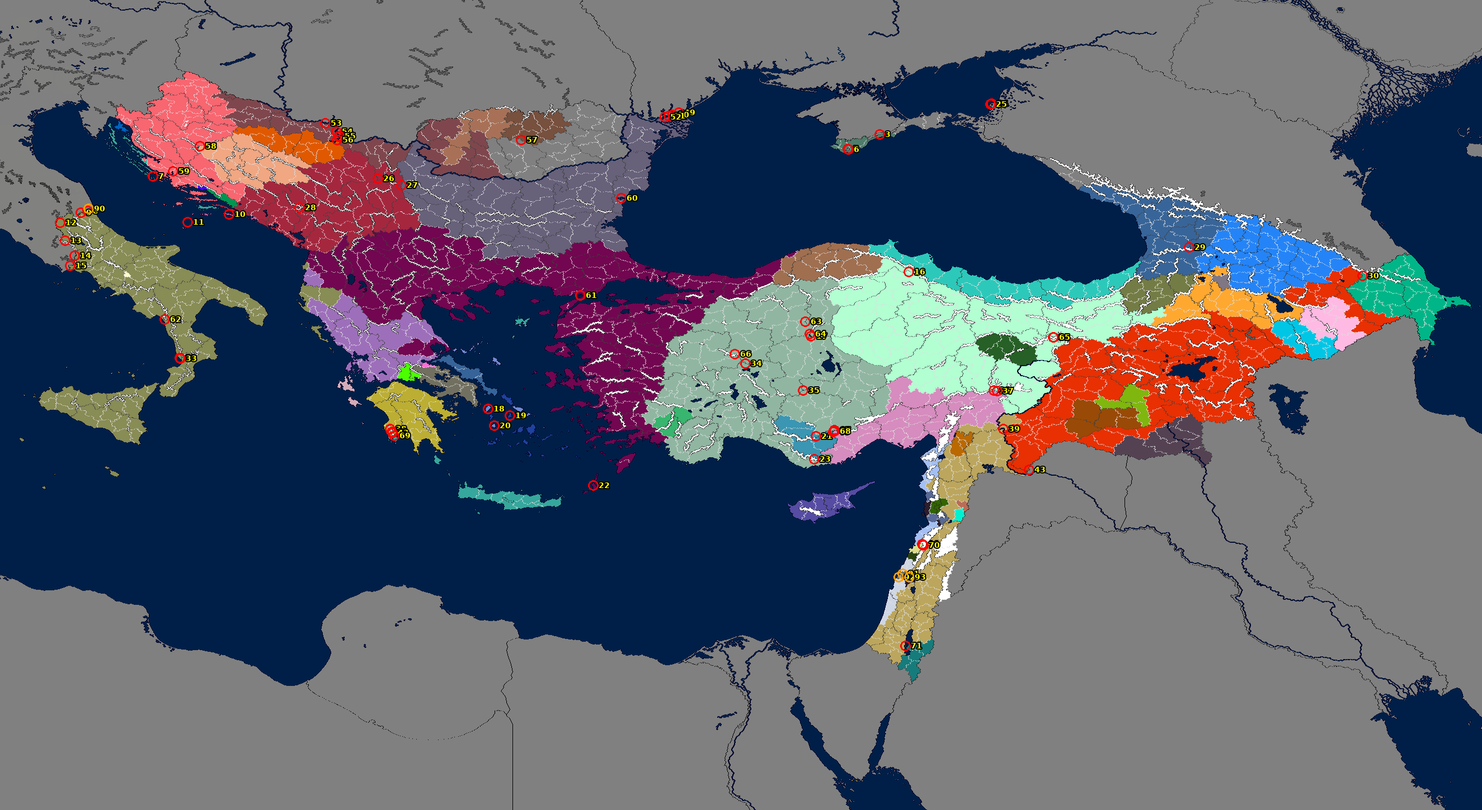
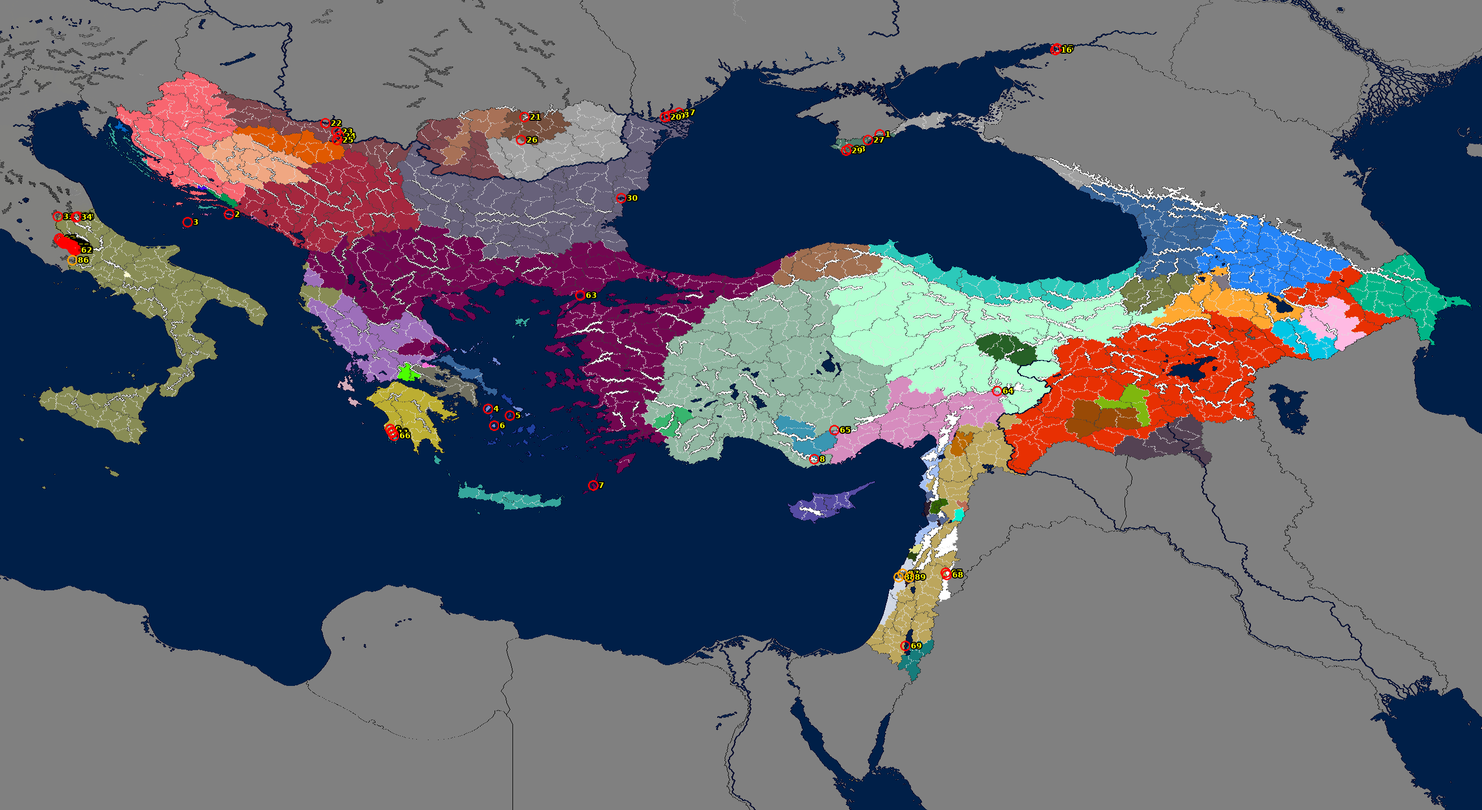
Обновлён список артефактов после чистки
Claude-Session: https://claude.ai/code/session_01DB8qGZSVeWu67G2NacHSuU

diff --git a/tools/artifacts.md b/tools/artifacts.md
@@ -4,97 +4,92 @@
 
 | № | Карта | Тип | x, y | Долгота, широта | Что не так |
 |---|---|---|---|---|---|
-| 1 | регионов | цвет державы | 3297, 1947 | 35.82, 34.01 | #e7eaf1: на карте регионов стоит цвет державы (8 пикс.) — из-за этого здесь получился отдельный регион |
-| 2 | регионов | цвет державы | 3242, 2087 | 35.42, 32.98 | #2d1d2d: на карте регионов стоит цвет державы (256 пикс.) — из-за этого здесь получился отдельный регион |
-| 3 | политическая | провинция поделена | 3145, 480 | 34.70, 44.86 | «Боспор, земля 5»: 60% #4f7c6b, 40% #808080. Граница державы идёт не по белой линии провинции |
-| 4 | политическая | провинция поделена | 1211, 489 | 20.41, 44.80 | «Срем, земля 8»: 96% #7f474d, 4% #e05900. Граница державы идёт не по белой линии провинции |
-| 5 | политическая | провинция поделена | 3030, 533 | 33.85, 44.47 | «Готия, земля 3»: 96% #4f7c6b, 4% #808080. Граница державы идёт не по белой линии провинции |
-| 6 | политическая | провинция поделена | 3033, 535 | 33.87, 44.46 | «Готия, земля 4»: 97% #4f7c6b, 3% #808080. Граница державы идёт не по белой линии провинции |
-| 7 | политическая | провинция поделена | 547, 631 | 15.50, 43.75 | «Северная Далмация, земля 5»: 97% #f86670, 3% #36a79c. Граница державы идёт не по белой линии провинции |
-| 8 | политическая | провинция поделена | 313, 755 | 13.77, 42.83 | «Абруцци, земля 1»: 91% #888c55, 5% #82827c. Граница державы идёт не по белой линии провинции |
-| 9 | политическая | провинция поделена | 288, 760 | 13.58, 42.79 | «Абруцци, земля 2»: 82% #888c55, 18% #82827c. Граница державы идёт не по белой линии провинции |
-| 10 | политическая | провинция поделена | 819, 767 | 17.51, 42.74 | «Конавли, земля 1»: 83% #a5273e, 16% #c4669e. Граница державы идёт не по белой линии провинции |
-| 11 | политическая | провинция поделена | 671, 794 | 16.41, 42.54 | «Корчула»: 91% #36a79c, 8% #c4669e. Граница державы идёт не по белой линии провинции |
-| 12 | политическая | провинция поделена | 214, 796 | 13.04, 42.53 | «Абруцци, земля 3»: 81% #888c55, 17% #81817f. Граница державы идёт не по белой линии провинции |
-| 13 | политическая | провинция поделена | 232, 861 | 13.17, 42.05 | «Абруцци, земля 8»: 96% #888c55, 4% #81817f. Граница державы идёт не по белой линии провинции |
-| 14 | политическая | провинция поделена | 266, 914 | 13.42, 41.65 | «Молизе, земля 7»: 93% #888c55, 7% #81817f. Граница державы идёт не по белой линии провинции |
-| 15 | политическая | провинция поделена | 250, 950 | 13.30, 41.39 | «Принчипато-Ультра, земля 2»: 87% #888c55, 13% #81817f. Граница державы идёт не по белой линии провинции |
-| 16 | политическая | провинция поделена | 3248, 973 | 35.46, 41.22 | «Галис, земля 1»: 97% #b2ffd2, 3% #ccffe2. Граница державы идёт не по белой линии провинции |
-| 17 | политическая | провинция поделена | 2898, 1202 | 32.87, 39.52 | «Галатия, земля 9»: 97% #90b6a1, 3% #3d1d12. Граница державы идёт не по белой линии провинции |
-| 18 | политическая | провинция поделена | 1744, 1462 | 24.34, 37.60 | «Андрос»: 79% #1f419e, 21% #728cd5. Граница державы идёт не по белой линии провинции |
-| 19 | политическая | провинция поделена | 1822, 1486 | 24.92, 37.42 | «Тинос»: 78% #728cd5, 22% #1f419e. Граница державы идёт не по белой линии провинции |
-| 20 | политическая | провинция поделена | 1766, 1522 | 24.51, 37.16 | «Серифос»: 77% #1f419e, 23% #728cd5. Граница державы идёт не по белой линии провинции |
-| 21 | политическая | провинция поделена | 2917, 1560 | 33.01, 36.88 | «Ларанда, земля 8»: 97% #90b6a1, 3% #3a96b2. Граница державы идёт не по белой линии провинции |
-| 22 | политическая | провинция поделена | 2120, 1736 | 27.12, 35.57 | «Ситея»: 76% #36a79c, 24% #720650. Граница державы идёт не по белой линии провинции |
-| 23 | обе | зона не совпадает | 2911, 1643 | 32.97, 36.26 | на политической закрашено, на карте регионов — фон (122 пикс.) |
-| 24 | политическая | случайный цвет | 3544, 371 | 37.65, 45.67 | #ff6a00: цвет встречается всего 4 пикс. |
-| 25 | политическая | случайный цвет | 3541, 373 | 37.63, 45.66 | #ff6a00: цвет встречается всего 4 пикс. |
-| 26 | политическая | случайный цвет | 1350, 638 | 21.43, 43.70 | #6aa377: цвет встречается всего 3 пикс. |
-| 27 | политическая | случайный цвет | 1435, 663 | 22.06, 43.51 | #3ea591: цвет встречается всего 3 пикс. |
-| 28 | политическая | случайный цвет | 1071, 743 | 19.37, 42.92 | #822a5a: цвет встречается всего 2 пикс. |
-| 29 | политическая | случайный цвет | 4251, 884 | 42.87, 41.88 | #004a7f: цвет встречается всего 26 пикс. |
-| 30 | политическая | случайный цвет | 4870, 987 | 47.45, 41.11 | #7c263f: цвет встречается всего 5 пикс. |
-| 31 | политическая | случайный цвет | 3764, 1207 | 39.27, 39.49 | #627f3d: цвет встречается всего 2 пикс. |
-| 32 | политическая | случайный цвет | 642, 1281 | 16.20, 38.94 | #7fffff: цвет встречается всего 14 пикс. |
-| 33 | политическая | случайный цвет | 645, 1282 | 16.22, 38.93 | #7fffff: цвет встречается всего 14 пикс. |
-| 34 | политическая | случайный цвет | 2664, 1301 | 31.14, 38.79 | #3fa5ff: цвет встречается всего 3 пикс. |
-| 35 | политическая | случайный цвет | 2871, 1396 | 32.67, 38.09 | #0056c6: цвет встречается всего 11 пикс. |
-| 36 | политическая | случайный цвет | 3553, 1397 | 37.72, 38.08 | #3fbf88: цвет встречается всего 6 пикс. |
-| 37 | политическая | случайный цвет | 3565, 1399 | 37.80, 38.07 | #3fbf88: цвет встречается всего 6 пикс. |
-| 38 | политическая | случайный цвет | 1394, 1535 | 21.76, 37.06 | #ffd533: цвет встречается всего 3 пикс. |
-| 39 | политическая | случайный цвет | 3587, 1535 | 37.97, 37.06 | #a08500: цвет встречается всего 3 пикс. |
-| 40 | политическая | случайный цвет | 2978, 1544 | 33.47, 36.99 | #703340: цвет встречается всего 14 пикс. |
-| 41 | политическая | случайный цвет | 1400, 1545 | 21.80, 36.99 | #ffd533: цвет встречается всего 3 пикс. |
-| 42 | политическая | случайный цвет | 1402, 1549 | 21.82, 36.96 | #ffd533: цвет встречается всего 3 пикс. |
-| 43 | политическая | случайный цвет | 3678, 1681 | 38.64, 35.98 | #7f593f: цвет встречается всего 7 пикс. |
-| 44 | политическая | случайный цвет | 3297, 1947 | 35.82, 34.01 | #e7eaf1: цвет встречается всего 9 пикс. |
-| 45 | регионов | случайный цвет | 1394, 1535 | 21.76, 37.06 | #ffd533: цвет встречается всего 3 пикс. |
-| 46 | регионов | случайный цвет | 1400, 1545 | 21.80, 36.99 | #ffd533: цвет встречается всего 3 пикс. |
-| 47 | регионов | случайный цвет | 1402, 1549 | 21.82, 36.96 | #ffd533: цвет встречается всего 3 пикс. |
-| 48 | регионов | случайный цвет | 3297, 1947 | 35.82, 34.01 | #e7eaf1: цвет встречается всего 9 пикс. |
-| 49 | политическая | обрывок | 2427, 402 | 29.39, 45.44 | #67617a: оторванный кусочек 19 пикс. (основная часть цвета — 5752 пикс.) |
-| 50 | политическая | обрывок | 2405, 410 | 29.23, 45.38 | #67617a: оторванный кусочек 25 пикс. (основная часть цвета — 5752 пикс.) |
-| 51 | политическая | обрывок | 2390, 414 | 29.12, 45.35 | #67617a: оторванный кусочек 19 пикс. (основная часть цвета — 5752 пикс.) |
-| 52 | политическая | обрывок | 2376, 418 | 29.02, 45.32 | #67617a: оторванный кусочек 25 пикс. (основная часть цвета — 5752 пикс.) |
-| 53 | политическая | обрывок | 1162, 440 | 20.04, 45.16 | #7f474d: оторванный кусочек 7 пикс. (основная часть цвета — 5663 пикс.) |
-| 54 | политическая | обрывок | 1203, 471 | 20.35, 44.93 | #7f474d: оторванный кусочек 7 пикс. (основная часть цвета — 5663 пикс.) |
-| 55 | политическая | обрывок | 1212, 486 | 20.41, 44.82 | #e05900: оторванный кусочек 18 пикс. (основная часть цвета — 3858 пикс.) |
-| 56 | политическая | обрывок | 1205, 500 | 20.36, 44.72 | #e05900: оторванный кусочек 5 пикс. (основная часть цвета — 3858 пикс.) |
-| 57 | политическая | обрывок | 1862, 501 | 25.22, 44.71 | #a87157: оторванный кусочек 1 пикс. (основная часть цвета — 3702 пикс.) |
-| 58 | политическая | обрывок | 714, 523 | 16.73, 44.55 | #26373f: оторванный кусочек 1 пикс. (основная часть цвета — 42 пикс.) |
-| 59 | политическая | обрывок | 618, 613 | 16.02, 43.88 | #36a79c: оторванный кусочек 1 пикс. (основная часть цвета — 2884 пикс.) |
-| 60 | политическая | обрывок | 2221, 709 | 27.87, 43.17 | #67617a: оторванный кусочек 10 пикс. (основная часть цвета — 5752 пикс.) |
-| 61 | политическая | обрывок | 2075, 1056 | 26.79, 40.60 | #720650: оторванный кусочек 5 пикс. (основная часть цвета — 5902 пикс.) |
-| 62 | политическая | обрывок | 588, 1142 | 15.80, 39.97 | #7fffff: оторванный кусочек 6 пикс. (основная часть цвета — 7 пикс.) |
-| 63 | политическая | обрывок | 2878, 1151 | 32.73, 39.90 | #3d1d12: оторванный кусочек 2 пикс. (основная часть цвета — 77 пикс.) |
-| 64 | политическая | обрывок | 2894, 1195 | 32.84, 39.58 | #90b6a1: оторванный кусочек 1 пикс. (основная часть цвета — 9583 пикс.) |
-| 65 | политическая | обрывок | 3766, 1207 | 39.29, 39.49 | #b2ffd2: оторванный кусочек 1 пикс. (основная часть цвета — 5877 пикс.) |
-| 66 | политическая | обрывок | 2626, 1267 | 30.86, 39.04 | #3fa5ff: оторванный кусочек 1 пикс. (основная часть цвета — 2 пикс.) |
-| 67 | политическая | обрывок | 2983, 1539 | 33.50, 37.03 | #703340: оторванный кусочек 5 пикс. (основная часть цвета — 8 пикс.) |
-| 68 | политическая | обрывок | 2982, 1543 | 33.49, 37.00 | #703340: оторванный кусочек 1 пикс. (основная часть цвета — 8 пикс.) |
-| 69 | политическая | обрывок | 1408, 1559 | 21.86, 36.88 | #bcae32: оторванный кусочек 1 пикс. (основная часть цвета — 3463 пикс.) |
-| 70 | политическая | обрывок | 3300, 1951 | 35.85, 33.98 | #e7eaf1: оторванный кусочек 1 пикс. (основная часть цвета — 8 пикс.) |
-| 71 | политическая | обрывок | 3237, 2310 | 35.38, 31.33 | #bca65d: оторванный кусочек 5 пикс. (основная часть цвета — 3166 пикс.) |
-| 72 | регионов | обрывок | 3779, 173 | 39.39, 47.14 | #ff6a00: оторванный кусочек 12 пикс. (основная часть цвета — 4044 пикс.) |
-| 73 | регионов | обрывок | 3772, 178 | 39.33, 47.10 | #ff6a00: оторванный кусочек 8 пикс. (основная часть цвета — 4044 пикс.) |
-| 74 | регионов | обрывок | 2427, 402 | 29.39, 45.44 | #ff00dc: оторванный кусочек 19 пикс. (основная часть цвета — 5226 пикс.) |
-| 75 | регионов | обрывок | 2405, 410 | 29.23, 45.38 | #ff00dc: оторванный кусочек 25 пикс. (основная часть цвета — 5226 пикс.) |
-| 76 | регионов | обрывок | 2390, 414 | 29.12, 45.35 | #ff00dc: оторванный кусочек 19 пикс. (основная часть цвета — 5226 пикс.) |
-| 77 | регионов | обрывок | 2376, 418 | 29.02, 45.32 | #ff00dc: оторванный кусочек 25 пикс. (основная часть цвета — 5226 пикс.) |
-| 78 | регионов | обрывок | 1162, 440 | 20.04, 45.16 | #a31510: оторванный кусочек 7 пикс. (основная часть цвета — 2555 пикс.) |
-| 79 | регионов | обрывок | 1203, 471 | 20.35, 44.93 | #a31510: оторванный кусочек 7 пикс. (основная часть цвета — 2555 пикс.) |
-| 80 | регионов | обрывок | 1212, 486 | 20.41, 44.82 | #a31510: оторванный кусочек 18 пикс. (основная часть цвета — 2555 пикс.) |
-| 81 | регионов | обрывок | 1205, 500 | 20.36, 44.72 | #a31510: оторванный кусочек 5 пикс. (основная часть цвета — 2555 пикс.) |
-| 82 | регионов | обрывок | 2221, 709 | 27.87, 43.17 | #d57cff: оторванный кусочек 10 пикс. (основная часть цвета — 5537 пикс.) |
-| 83 | регионов | обрывок | 2075, 1056 | 26.79, 40.60 | #ff0000: оторванный кусочек 5 пикс. (основная часть цвета — 2140 пикс.) |
-| 84 | регионов | обрывок | 588, 1142 | 15.80, 39.97 | #7fffff: оторванный кусочек 6 пикс. (основная часть цвета — 2600 пикс.) |
-| 85 | регионов | обрывок | 645, 1282 | 16.22, 38.93 | #7fffff: оторванный кусочек 7 пикс. (основная часть цвета — 2600 пикс.) |
-| 86 | регионов | обрывок | 1408, 1559 | 21.86, 36.88 | #5b6b35: оторванный кусочек 1 пикс. (основная часть цвета — 2238 пикс.) |
-| 87 | регионов | обрывок | 3368, 1885 | 36.35, 34.47 | #bca65d: оторванный кусочек 2 пикс. (основная часть цвета — 22 пикс.) |
-| 88 | регионов | обрывок | 3300, 1951 | 35.85, 33.98 | #e7eaf1: оторванный кусочек 1 пикс. (основная часть цвета — 8 пикс.) |
-| 89 | регионов | обрывок | 3237, 2310 | 35.38, 31.33 | #167c7b: оторванный кусочек 5 пикс. (основная часть цвета — 2192 пикс.) |
-| 90 | политическая | почти серый | 317, 746 | 13.80, 42.90 | цвет #828280 (13 пикс.) — почти как фон #808080, но не он. Перекрасить в нужный цвет |
-| 91 | политическая | почти серый | 3227, 2053 | 35.31, 33.23 | цвет #697067 (475 пикс.) — почти как фон #808080, но не он. Перекрасить в нужный цвет |
-| 92 | политическая | почти серый | 3212, 2064 | 35.19, 33.15 | цвет #697067 (116 пикс.) — почти как фон #808080, но не он. Перекрасить в нужный цвет |
-| 93 | политическая | почти серый | 3250, 2065 | 35.48, 33.14 | цвет #697067 (817 пикс.) — почти как фон #808080, но не он. Перекрасить в нужный цвет |
-| 94 | регионов | почти серый | 317, 746 | 13.80, 42.90 | цвет #828280 (13 пикс.) — почти как фон #808080, но не он. Перекрасить в нужный цвет |
+| 1 | политическая | провинция поделена | 3145, 480 | 34.70, 44.86 | «Боспор, земля 5»: 60% #4f7c6b, 40% #a0a0a0. Граница державы идёт не по белой линии провинции |
+| 2 | политическая | провинция поделена | 819, 767 | 17.51, 42.74 | «Конавли, земля 1»: 83% #a5273e, 16% #c4669e. Граница державы идёт не по белой линии провинции |
+| 3 | политическая | провинция поделена | 671, 794 | 16.41, 42.54 | «Корчула»: 91% #36a79c, 8% #c4669e. Граница державы идёт не по белой линии провинции |
+| 4 | политическая | провинция поделена | 1744, 1462 | 24.34, 37.60 | «Андрос»: 79% #1f419e, 21% #728cd5. Граница державы идёт не по белой линии провинции |
+| 5 | политическая | провинция поделена | 1822, 1486 | 24.92, 37.42 | «Тинос»: 78% #728cd5, 22% #1f419e. Граница державы идёт не по белой линии провинции |
+| 6 | политическая | провинция поделена | 1766, 1522 | 24.51, 37.16 | «Серифос»: 77% #1f419e, 23% #728cd5. Граница державы идёт не по белой линии провинции |
+| 7 | политическая | провинция поделена | 2120, 1736 | 27.12, 35.57 | «Ситея»: 76% #36a79c, 24% #720650. Граница державы идёт не по белой линии провинции |
+| 8 | обе | зона не совпадает | 2911, 1643 | 32.97, 36.26 | на политической закрашено, на карте регионов — фон (122 пикс.) |
+| 9 | политическая | случайный цвет | 1394, 1535 | 21.76, 37.06 | #ffd533: цвет встречается всего 3 пикс. |
+| 10 | политическая | случайный цвет | 1400, 1545 | 21.80, 36.99 | #ffd533: цвет встречается всего 3 пикс. |
+| 11 | политическая | случайный цвет | 1402, 1549 | 21.82, 36.96 | #ffd533: цвет встречается всего 3 пикс. |
+| 12 | регионов | случайный цвет | 1394, 1535 | 21.76, 37.06 | #ffd533: цвет встречается всего 3 пикс. |
+| 13 | регионов | случайный цвет | 1400, 1545 | 21.80, 36.99 | #ffd533: цвет встречается всего 3 пикс. |
+| 14 | регионов | случайный цвет | 1402, 1549 | 21.82, 36.96 | #ffd533: цвет встречается всего 3 пикс. |
+| 15 | политическая | обрывок | 3779, 173 | 39.39, 47.14 | #a0a0a0: оторванный кусочек 12 пикс. (основная часть цвета — 5223 пикс.) |
+| 16 | политическая | обрывок | 3772, 178 | 39.33, 47.10 | #a0a0a0: оторванный кусочек 8 пикс. (основная часть цвета — 5223 пикс.) |
+| 17 | политическая | обрывок | 2427, 402 | 29.39, 45.44 | #67617a: оторванный кусочек 19 пикс. (основная часть цвета — 5752 пикс.) |
+| 18 | политическая | обрывок | 2405, 410 | 29.23, 45.38 | #67617a: оторванный кусочек 25 пикс. (основная часть цвета — 5752 пикс.) |
+| 19 | политическая | обрывок | 2390, 414 | 29.12, 45.35 | #67617a: оторванный кусочек 19 пикс. (основная часть цвета — 5752 пикс.) |
+| 20 | политическая | обрывок | 2376, 418 | 29.02, 45.32 | #67617a: оторванный кусочек 25 пикс. (основная часть цвета — 5752 пикс.) |
+| 21 | политическая | обрывок | 1875, 419 | 25.31, 45.32 | #a0a0a0: оторванный кусочек 20 пикс. (основная часть цвета — 5223 пикс.) |
+| 22 | политическая | обрывок | 1162, 440 | 20.04, 45.16 | #7f474d: оторванный кусочек 7 пикс. (основная часть цвета — 5663 пикс.) |
+| 23 | политическая | обрывок | 1203, 471 | 20.35, 44.93 | #7f474d: оторванный кусочек 7 пикс. (основная часть цвета — 5663 пикс.) |
+| 24 | политическая | обрывок | 1212, 486 | 20.41, 44.82 | #7f474d: оторванный кусочек 18 пикс. (основная часть цвета — 5663 пикс.) |
+| 25 | политическая | обрывок | 1205, 500 | 20.36, 44.72 | #7f474d: оторванный кусочек 5 пикс. (основная часть цвета — 5663 пикс.) |
+| 26 | политическая | обрывок | 1862, 501 | 25.22, 44.71 | #a0a0a0: оторванный кусочек 1 пикс. (основная часть цвета — 5223 пикс.) |
+| 27 | политическая | обрывок | 3102, 501 | 34.38, 44.71 | #4f7c6b: оторванный кусочек 1 пикс. (основная часть цвета — 1876 пикс.) |
+| 28 | политическая | обрывок | 3035, 533 | 33.89, 44.47 | #a0a0a0: оторванный кусочек 4 пикс. (основная часть цвета — 5223 пикс.) |
+| 29 | политическая | обрывок | 3024, 539 | 33.81, 44.43 | #a0a0a0: оторванный кусочек 1 пикс. (основная часть цвета — 5223 пикс.) |
+| 30 | политическая | обрывок | 2221, 709 | 27.87, 43.17 | #67617a: оторванный кусочек 10 пикс. (основная часть цвета — 5752 пикс.) |
+| 31 | политическая | обрывок | 207, 774 | 12.98, 42.69 | #888c55: оторванный кусочек 1 пикс. (основная часть цвета — 4938 пикс.) |
+| 32 | политическая | обрывок | 206, 775 | 12.98, 42.68 | #888c55: оторванный кусочек 1 пикс. (основная часть цвета — 4938 пикс.) |
+| 33 | политическая | обрывок | 276, 775 | 13.49, 42.68 | #888c55: оторванный кусочек 1 пикс. (основная часть цвета — 4938 пикс.) |
+| 34 | политическая | обрывок | 270, 777 | 13.45, 42.67 | #888c55: оторванный кусочек 1 пикс. (основная часть цвета — 4938 пикс.) |
+| 35 | политическая | обрывок | 212, 853 | 13.02, 42.11 | #888c55: оторванный кусочек 1 пикс. (основная часть цвета — 4938 пикс.) |
+| 36 | политическая | обрывок | 211, 854 | 13.01, 42.10 | #888c55: оторванный кусочек 1 пикс. (основная часть цвета — 4938 пикс.) |
+| 37 | политическая | обрывок | 210, 855 | 13.01, 42.09 | #888c55: оторванный кусочек 1 пикс. (основная часть цвета — 4938 пикс.) |
+| 38 | политическая | обрывок | 216, 861 | 13.05, 42.05 | #888c55: оторванный кусочек 1 пикс. (основная часть цвета — 4938 пикс.) |
+| 39 | политическая | обрывок | 222, 867 | 13.10, 42.00 | #888c55: оторванный кусочек 1 пикс. (основная часть цвета — 4938 пикс.) |
+| 40 | политическая | обрывок | 232, 867 | 13.17, 42.00 | #888c55: оторванный кусочек 1 пикс. (основная часть цвета — 4938 пикс.) |
+| 41 | политическая | обрывок | 234, 867 | 13.18, 42.00 | #888c55: оторванный кусочек 1 пикс. (основная часть цвета — 4938 пикс.) |
+| 42 | политическая | обрывок | 224, 869 | 13.11, 41.99 | #888c55: оторванный кусочек 1 пикс. (основная часть цвета — 4938 пикс.) |
+| 43 | политическая | обрывок | 230, 869 | 13.15, 41.99 | #888c55: оторванный кусочек 1 пикс. (основная часть цвета — 4938 пикс.) |
+| 44 | политическая | обрывок | 236, 869 | 13.20, 41.99 | #888c55: оторванный кусочек 1 пикс. (основная часть цвета — 4938 пикс.) |
+| 45 | политическая | обрывок | 226, 871 | 13.13, 41.97 | #888c55: оторванный кусочек 1 пикс. (основная часть цвета — 4938 пикс.) |
+| 46 | политическая | обрывок | 241, 872 | 13.24, 41.96 | #888c55: оторванный кусочек 5 пикс. (основная часть цвета — 4938 пикс.) |
+| 47 | политическая | обрывок | 244, 873 | 13.26, 41.96 | #888c55: оторванный кусочек 1 пикс. (основная часть цвета — 4938 пикс.) |
+| 48 | политическая | обрывок | 246, 875 | 13.27, 41.94 | #888c55: оторванный кусочек 1 пикс. (основная часть цвета — 4938 пикс.) |
+| 49 | политическая | обрывок | 250, 875 | 13.30, 41.94 | #888c55: оторванный кусочек 1 пикс. (основная часть цвета — 4938 пикс.) |
+| 50 | политическая | обрывок | 253, 877 | 13.32, 41.93 | #888c55: оторванный кусочек 3 пикс. (основная часть цвета — 4938 пикс.) |
+| 51 | политическая | обрывок | 258, 879 | 13.36, 41.91 | #888c55: оторванный кусочек 1 пикс. (основная часть цвета — 4938 пикс.) |
+| 52 | политическая | обрывок | 260, 879 | 13.38, 41.91 | #888c55: оторванный кусочек 1 пикс. (основная часть цвета — 4938 пикс.) |
+| 53 | политическая | обрывок | 263, 881 | 13.40, 41.90 | #888c55: оторванный кусочек 3 пикс. (основная часть цвета — 4938 пикс.) |
+| 54 | политическая | обрывок | 261, 882 | 13.38, 41.89 | #888c55: оторванный кусочек 1 пикс. (основная часть цвета — 4938 пикс.) |
+| 55 | политическая | обрывок | 260, 883 | 13.38, 41.88 | #888c55: оторванный кусочек 1 пикс. (основная часть цвета — 4938 пикс.) |
+| 56 | политическая | обрывок | 258, 889 | 13.36, 41.84 | #888c55: оторванный кусочек 1 пикс. (основная часть цвета — 4938 пикс.) |
+| 57 | политическая | обрывок | 260, 891 | 13.38, 41.82 | #888c55: оторванный кусочек 1 пикс. (основная часть цвета — 4938 пикс.) |
+| 58 | политическая | обрывок | 270, 893 | 13.45, 41.81 | #888c55: оторванный кусочек 1 пикс. (основная часть цвета — 4938 пикс.) |
+| 59 | политическая | обрывок | 272, 893 | 13.47, 41.81 | #888c55: оторванный кусочек 1 пикс. (основная часть цвета — 4938 пикс.) |
+| 60 | политическая | обрывок | 265, 894 | 13.41, 41.80 | #888c55: оторванный кусочек 7 пикс. (основная часть цвета — 4938 пикс.) |
+| 61 | политическая | обрывок | 271, 894 | 13.46, 41.80 | #888c55: оторванный кусочек 1 пикс. (основная часть цвета — 4938 пикс.) |
+| 62 | политическая | обрывок | 270, 895 | 13.45, 41.79 | #888c55: оторванный кусочек 1 пикс. (основная часть цвета — 4938 пикс.) |
+| 63 | политическая | обрывок | 2075, 1056 | 26.79, 40.60 | #720650: оторванный кусочек 5 пикс. (основная часть цвета — 5902 пикс.) |
+| 64 | политическая | обрывок | 3565, 1399 | 37.80, 38.07 | #b2ffd2: оторванный кусочек 3 пикс. (основная часть цвета — 5877 пикс.) |
+| 65 | политическая | обрывок | 2983, 1539 | 33.50, 37.03 | #90b6a1: оторванный кусочек 5 пикс. (основная часть цвета — 9583 пикс.) |
+| 66 | политическая | обрывок | 1408, 1559 | 21.86, 36.88 | #bcae32: оторванный кусочек 1 пикс. (основная часть цвета — 3463 пикс.) |
+| 67 | политическая | обрывок | 3380, 2049 | 36.44, 33.26 | #bca65d: оторванный кусочек 1 пикс. (основная часть цвета — 3166 пикс.) |
+| 68 | политическая | обрывок | 3384, 2057 | 36.47, 33.20 | #bca65d: оторванный кусочек 1 пикс. (основная часть цвета — 3166 пикс.) |
+| 69 | политическая | обрывок | 3237, 2310 | 35.38, 31.33 | #bca65d: оторванный кусочек 5 пикс. (основная часть цвета — 3166 пикс.) |
+| 70 | регионов | обрывок | 3779, 173 | 39.39, 47.14 | #ff6a00: оторванный кусочек 12 пикс. (основная часть цвета — 4044 пикс.) |
+| 71 | регионов | обрывок | 3772, 178 | 39.33, 47.10 | #ff6a00: оторванный кусочек 8 пикс. (основная часть цвета — 4044 пикс.) |
+| 72 | регионов | обрывок | 2427, 402 | 29.39, 45.44 | #ff00dc: оторванный кусочек 19 пикс. (основная часть цвета — 5226 пикс.) |
+| 73 | регионов | обрывок | 2405, 410 | 29.23, 45.38 | #ff00dc: оторванный кусочек 25 пикс. (основная часть цвета — 5226 пикс.) |
+| 74 | регионов | обрывок | 2390, 414 | 29.12, 45.35 | #ff00dc: оторванный кусочек 19 пикс. (основная часть цвета — 5226 пикс.) |
+| 75 | регионов | обрывок | 2376, 418 | 29.02, 45.32 | #ff00dc: оторванный кусочек 25 пикс. (основная часть цвета — 5226 пикс.) |
+| 76 | регионов | обрывок | 1162, 440 | 20.04, 45.16 | #a31510: оторванный кусочек 7 пикс. (основная часть цвета — 2555 пикс.) |
+| 77 | регионов | обрывок | 1203, 471 | 20.35, 44.93 | #a31510: оторванный кусочек 7 пикс. (основная часть цвета — 2555 пикс.) |
+| 78 | регионов | обрывок | 1212, 486 | 20.41, 44.82 | #a31510: оторванный кусочек 18 пикс. (основная часть цвета — 2555 пикс.) |
+| 79 | регионов | обрывок | 1205, 500 | 20.36, 44.72 | #a31510: оторванный кусочек 5 пикс. (основная часть цвета — 2555 пикс.) |
+| 80 | регионов | обрывок | 2221, 709 | 27.87, 43.17 | #d57cff: оторванный кусочек 10 пикс. (основная часть цвета — 5537 пикс.) |
+| 81 | регионов | обрывок | 2075, 1056 | 26.79, 40.60 | #ff0000: оторванный кусочек 5 пикс. (основная часть цвета — 2140 пикс.) |
+| 82 | регионов | обрывок | 1408, 1559 | 21.86, 36.88 | #5b6b35: оторванный кусочек 1 пикс. (основная часть цвета — 2238 пикс.) |
+| 83 | регионов | обрывок | 3380, 2049 | 36.44, 33.26 | #0094ff: оторванный кусочек 1 пикс. (основная часть цвета — 3450 пикс.) |
+| 84 | регионов | обрывок | 3384, 2057 | 36.47, 33.20 | #0094ff: оторванный кусочек 1 пикс. (основная часть цвета — 3450 пикс.) |
+| 85 | регионов | обрывок | 3237, 2310 | 35.38, 31.33 | #167c7b: оторванный кусочек 5 пикс. (основная часть цвета — 2192 пикс.) |
+| 86 | политическая | почти серый | 259, 930 | 13.37, 41.54 | цвет #81817f (5 пикс.) — почти как фон #808080, но не он. Перекрасить в нужный цвет |
+| 87 | политическая | почти серый | 3227, 2053 | 35.31, 33.23 | цвет #697067 (475 пикс.) — почти как фон #808080, но не он. Перекрасить в нужный цвет |
+| 88 | политическая | почти серый | 3212, 2064 | 35.19, 33.15 | цвет #697067 (116 пикс.) — почти как фон #808080, но не он. Перекрасить в нужный цвет |
+| 89 | политическая | почти серый | 3250, 2065 | 35.48, 33.14 | цвет #697067 (817 пикс.) — почти как фон #808080, но не он. Перекрасить в нужный цвет |
